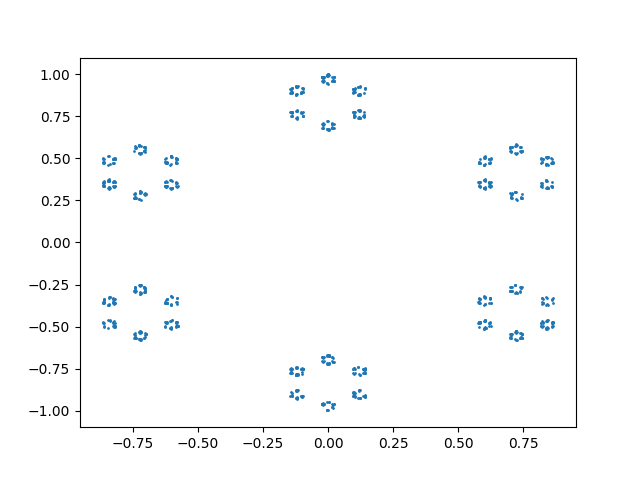
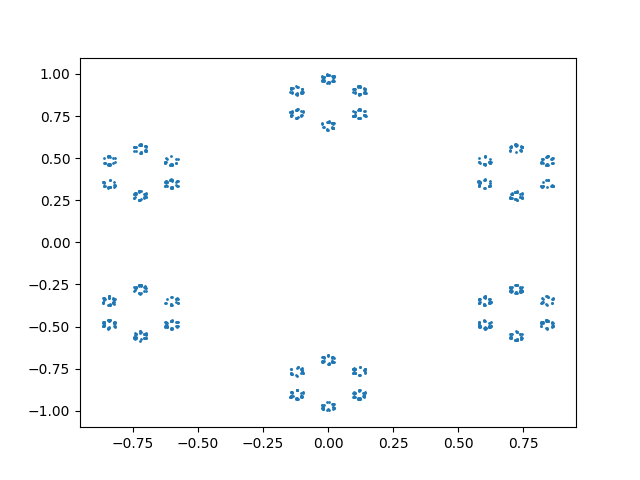
Generalized to an n-gon.

diff --git a/src/sierpinski_hexagon.py b/src/sierpinski_hexagon.py
@@ -1,29 +1,7 @@
-import math
-import random
 import sys
 
-import matplotlib.pyplot as plt
-
-
-def main(n):
-    v = [[math.sin(i * math.pi / 3.0), math.cos(i * math.pi / 3.0)] for i in range(6)]
-
-    def w(x, j):
-        return [(x[i] + 5 * v[j][i]) / 6.0 for i in range(2)]
-
-    xs = [0.0] * n
-    ys = [0.0] * n
-    x = v[0]
-    for i in range(n):
-        xs[i] = x[0]
-        ys[i] = x[1]
-        r = random.randint(0, 5)
-        x = w(x, r)
-    plt.scatter(xs[4:], ys[4:], 1)
-    plt.savefig('../img/sierpinski_hexagon.png')
-    plt.show()
-
+from sierpinski_n_gon import sierpinski_m_gon
 
 if __name__ == "__main__":
     n = int(sys.argv[1])
-    main(n)
+    sierpinski_m_gon(n, 6, '../img/sierpinski_hexagon.png')

diff --git a/src/sierpinski_n_gon.py b/src/sierpinski_n_gon.py
@@ -1,0 +1,23 @@
+import math
+import random
+
+import matplotlib.pyplot as plt
+
+
+def sierpinski_m_gon(n, m, fig_path):
+    v = [[math.sin(i * math.pi / 3.0), math.cos(i * math.pi / 3.0)] for i in range(m)]
+
+    def w(x, j):
+        return [(x[i] + (m - 1) * v[j][i]) / float(m) for i in range(2)]
+
+    xs = [0.0] * n
+    ys = [0.0] * n
+    x = v[0]
+    for i in range(n):
+        xs[i] = x[0]
+        ys[i] = x[1]
+        r = random.randint(0, m - 1)
+        x = w(x, r)
+    plt.scatter(xs[4:], ys[4:], 1)
+    plt.savefig(fig_path)
+    plt.show()
